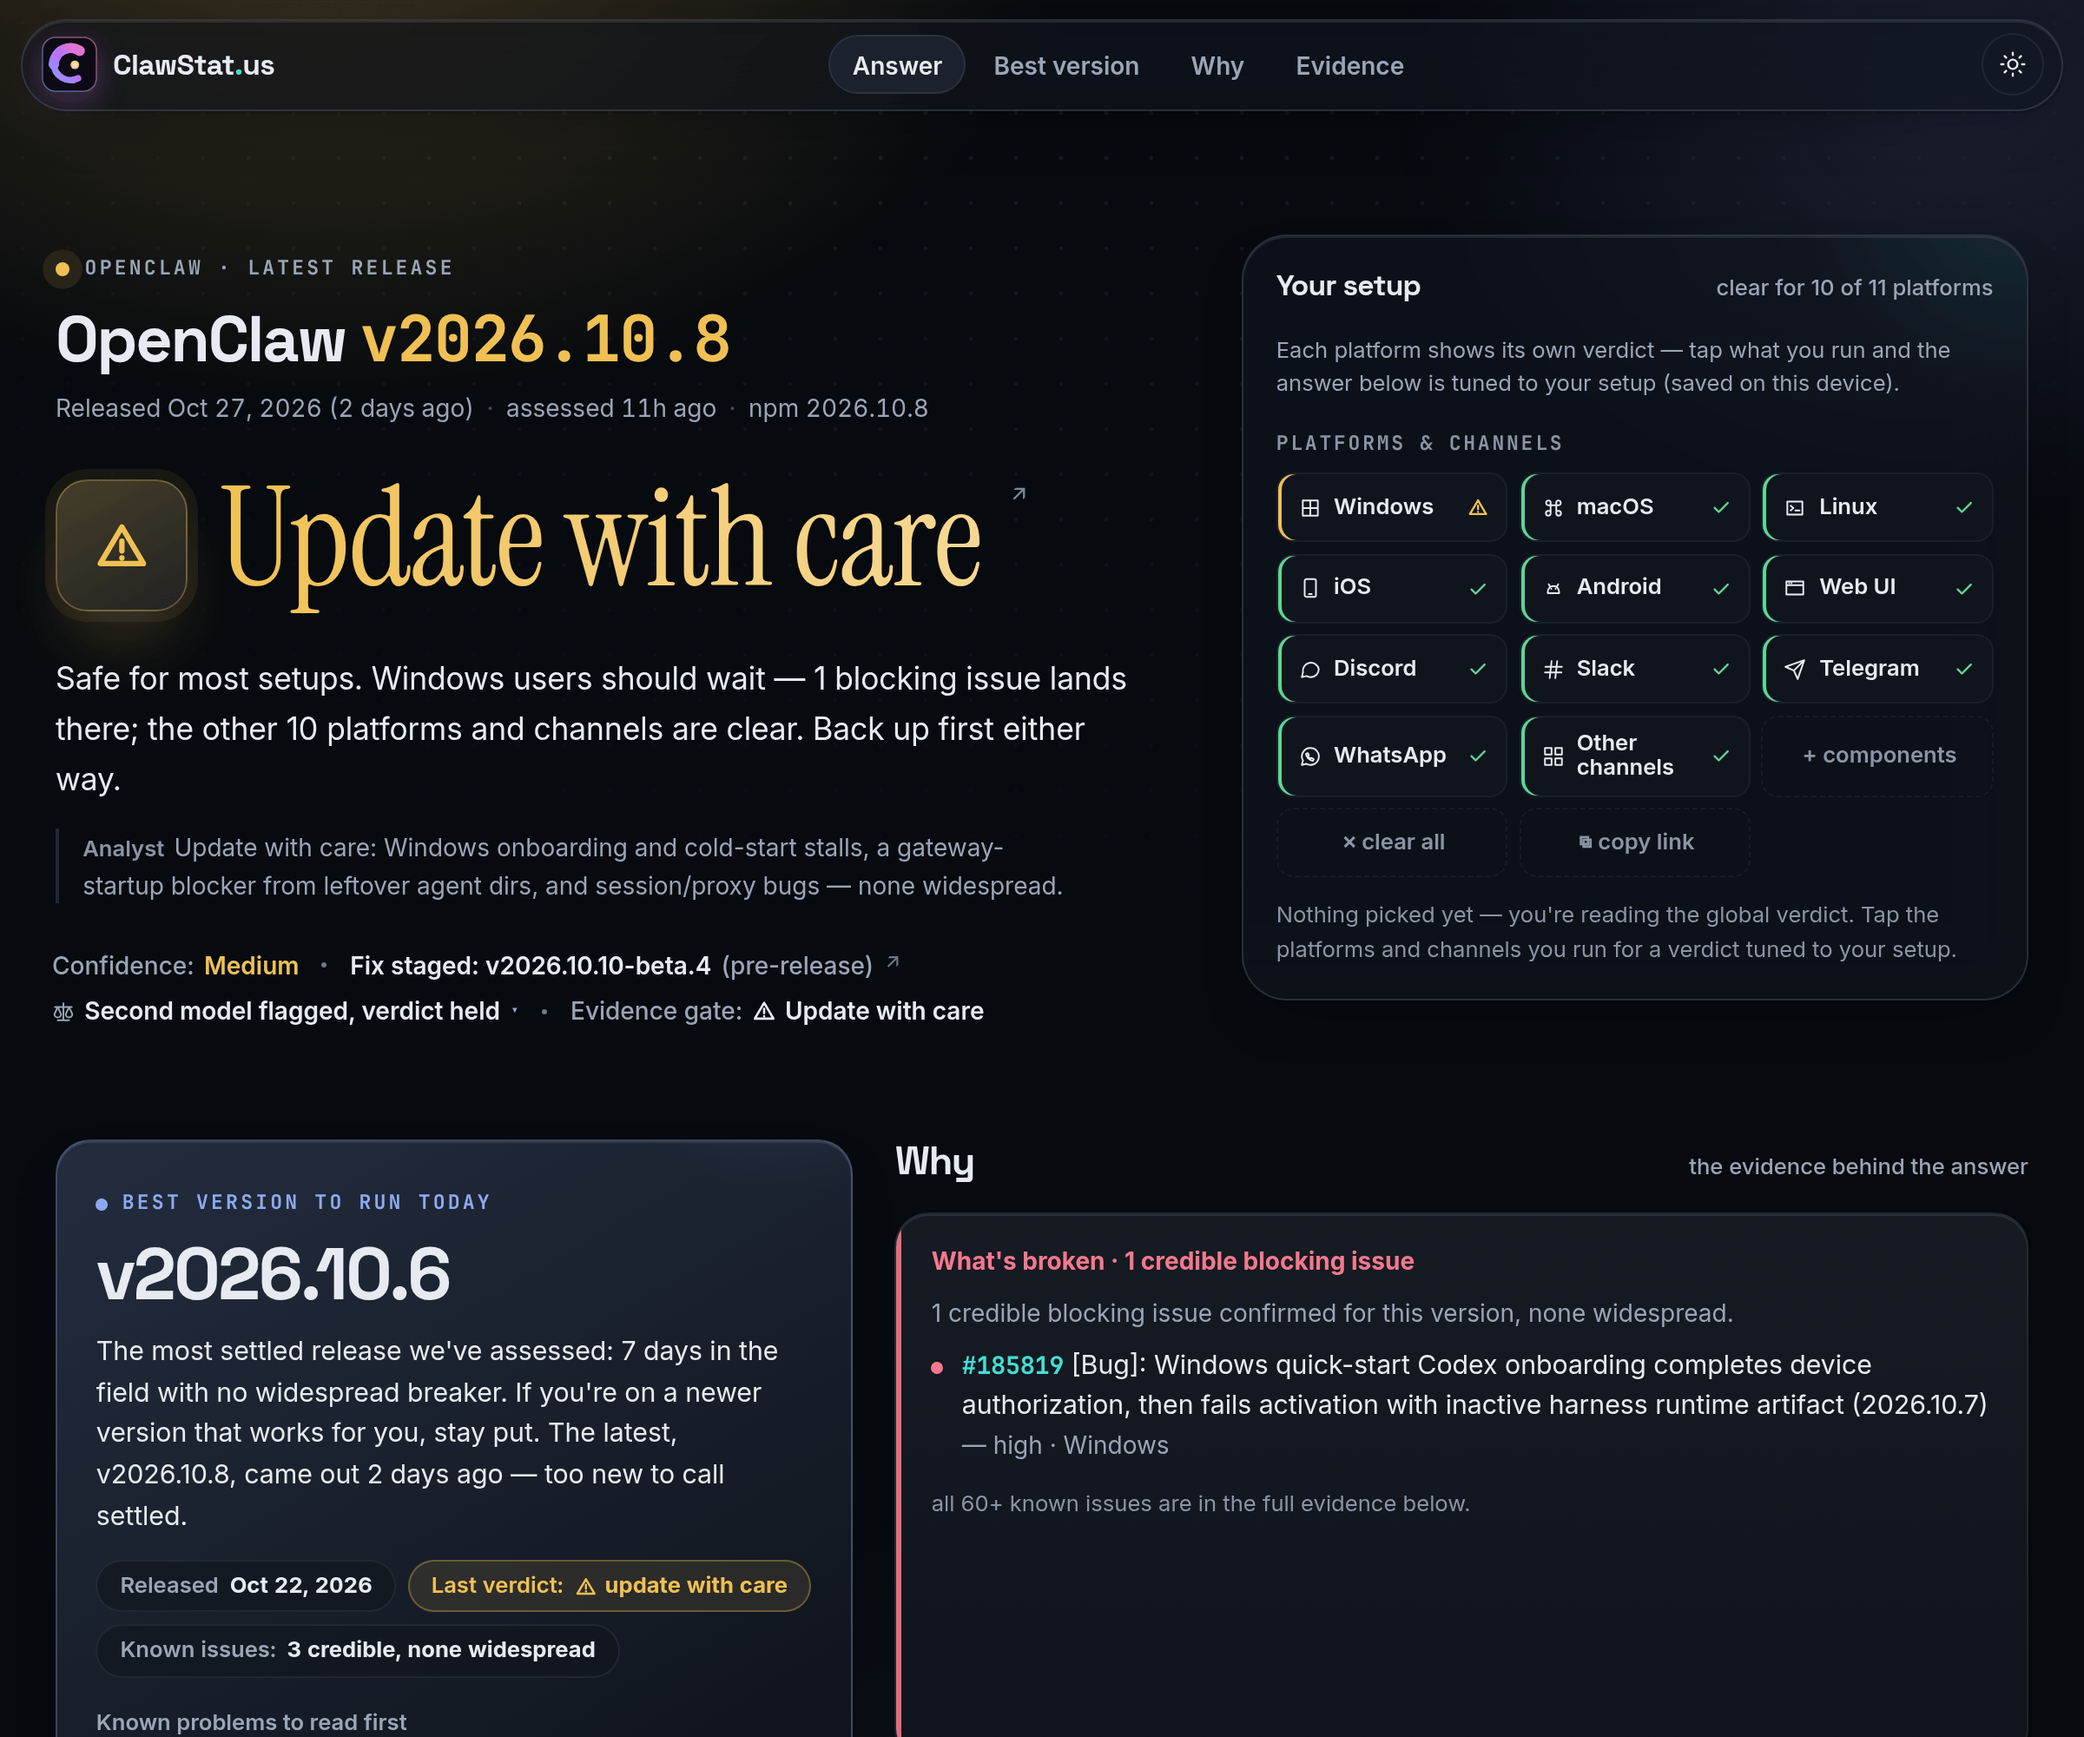
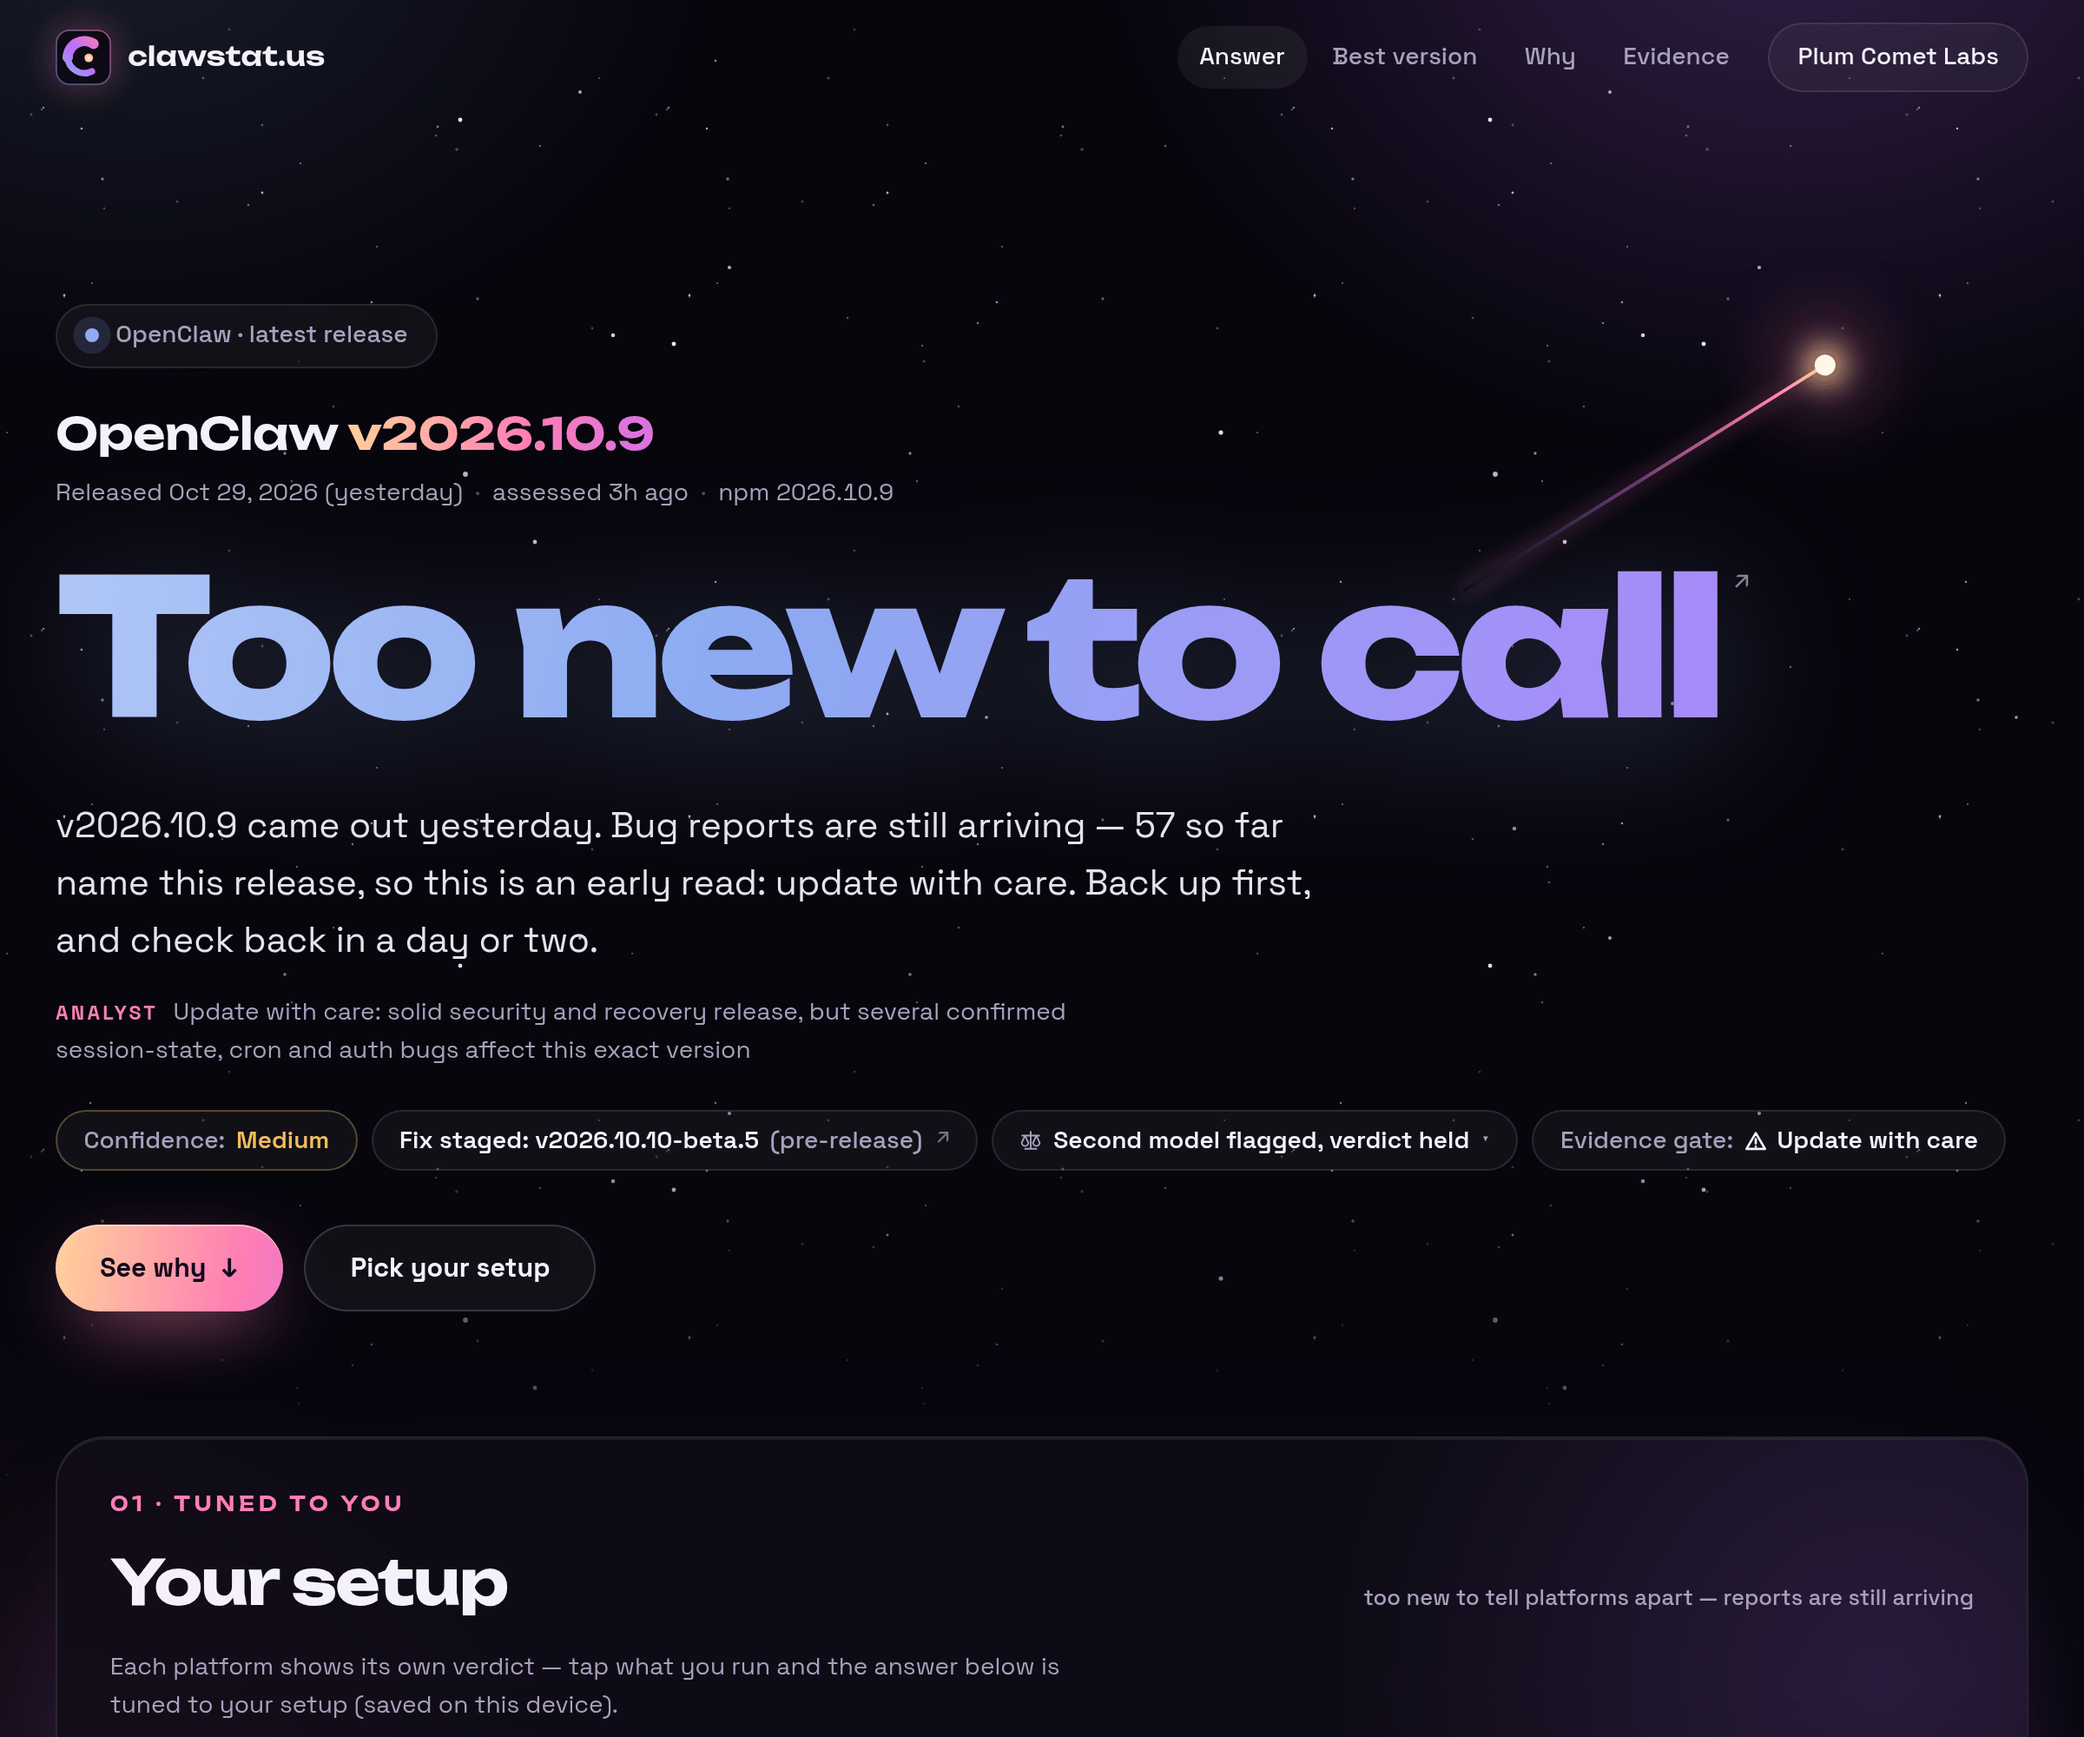
Stale after the Comet redesign: light hero gone, share card and README hero re-shot
- docs/hero-light.png removed: the page has one theme.
- tools/shot.cjs: the --theme option is gone (it set a stored theme the page no
  longer reads); tests/browser/README.md follows (one contrast theme, one set of
  design-loop shots, one README hero).
- tools/og-card.html in the Comet look (Unbounded, the studio gradient, a still
  comet); web/og.png and docs/hero-dark.png re-shot, 256 colours.
- CHANGELOG: the icon entry no longer says the page accent stays teal.

Claude-Session: https://claude.ai/code/session_01RRpqX15cXHXQmLnGwp7zCR

diff --git a/tools/og-card.html b/tools/og-card.html
@@ -8,46 +8,63 @@
 
   It uses the page's own fonts and mark (served from web/ by the screenshot tool), so the
   card follows the design system instead of drifting from it. Re-run after a brand change.
+  Since 2026-10-30 that is the Plum Comet Labs "Comet" look: deep space, a still comet,
+  Unbounded + Space Grotesk, the studio gradient.
 -->
 <style>
-@font-face{font-family:"Inter";font-style:normal;font-weight:400 800;src:url(fonts/Inter-var.woff2) format("woff2")}
+@font-face{font-family:"Unbounded";font-style:normal;font-weight:200 900;src:url(fonts/Unbounded-var.woff2) format("woff2")}
 @font-face{font-family:"Space Grotesk";font-style:normal;font-weight:300 700;src:url(fonts/SpaceGrotesk-var.woff2) format("woff2")}
 :root{
-  --bg:#070a0f; --card:#10151d; --text:#e7ebf1; --muted:#9aa5b6; --faint:#8a94a4;
-  --accent:#3fe0d5; --accent2:#8f9ff5; --good:#5ad893; --warn:#f0c052; --bad:#f6788c;
+  --bg:#07060d; --text:#f4f1fb; --muted:#a8a0bd; --faint:#958dab;
+  --pink:#ff7eb3; --plum:#c06bff; --good:#5ad893; --warn:#f0c052; --bad:#f6788c;
+  --grad:linear-gradient(100deg,#ffd29a 0%,#ff7eb3 30%,#c06bff 60%,#7aa7ff 80%,#ffd29a 100%);
 }
 *{margin:0; box-sizing:border-box}
 html,body{width:1200px; height:630px; overflow:hidden}
 body{
   position:relative; background:var(--bg); color:var(--text);
-  font-family:Inter,system-ui,sans-serif; font-optical-sizing:auto; -webkit-font-smoothing:antialiased;
+  font-family:"Space Grotesk",system-ui,sans-serif; -webkit-font-smoothing:antialiased;
 }
 body::after{content:""; position:absolute; inset:0; pointer-events:none;
-  background:radial-gradient(48% 60% at 12% -8%, color-mix(in srgb,var(--warn) 22%,transparent), transparent 72%),
-             radial-gradient(40% 48% at 96% 4%, color-mix(in srgb,var(--accent2) 16%,transparent), transparent 72%),
-             radial-gradient(56% 40% at 60% 120%, color-mix(in srgb,var(--accent) 12%,transparent), transparent 72%)}
+  background:radial-gradient(52% 70% at 92% -6%, rgba(192,107,255,.30), transparent 70%),
+             radial-gradient(44% 56% at 4% -10%, rgba(240,192,82,.13), transparent 72%),
+             radial-gradient(50% 50% at 0% 110%, rgba(255,126,179,.10), transparent 72%)}
 body::before{content:""; position:absolute; inset:0; pointer-events:none;
-  background-image:radial-gradient(color-mix(in srgb,var(--text) 9%,transparent) 1px,transparent 1.4px); background-size:26px 26px;
-  -webkit-mask-image:radial-gradient(70% 70% at 50% 0%,#000 10%,transparent 100%); mask-image:radial-gradient(70% 70% at 50% 0%,#000 10%,transparent 100%)}
-.card{position:relative; z-index:1; height:100%; padding:64px 80px 56px; display:flex; flex-direction:column}
+  background:radial-gradient(1.4px 1.4px at 6% 22%, rgba(255,255,255,.8), transparent 70%),
+             radial-gradient(1px 1px at 17% 9%, rgba(255,255,255,.55), transparent 70%),
+             radial-gradient(1.2px 1.2px at 31% 36%, rgba(255,255,255,.6), transparent 70%),
+             radial-gradient(1px 1px at 44% 12%, rgba(255,255,255,.5), transparent 70%),
+             radial-gradient(1.6px 1.6px at 56% 28%, rgba(255,246,234,.85), transparent 70%),
+             radial-gradient(1px 1px at 63% 7%, rgba(255,255,255,.55), transparent 70%),
+             radial-gradient(1.2px 1.2px at 71% 46%, rgba(255,255,255,.6), transparent 70%),
+             radial-gradient(1px 1px at 82% 58%, rgba(255,255,255,.5), transparent 70%),
+             radial-gradient(1.4px 1.4px at 94% 40%, rgba(255,255,255,.7), transparent 70%),
+             radial-gradient(1px 1px at 88% 82%, rgba(255,255,255,.45), transparent 70%),
+             radial-gradient(1px 1px at 12% 70%, rgba(255,255,255,.45), transparent 70%),
+             radial-gradient(1.2px 1.2px at 38% 88%, rgba(255,255,255,.5), transparent 70%)}
+/* the studio's comet, still: a gradient tail and a white-hot head */
+.comet{position:absolute; z-index:1; top:96px; right:92px; width:300px; height:14px; transform:rotate(-32deg); transform-origin:100% 50%}
+.comet::before{content:""; position:absolute; left:0; right:6px; top:6px; height:2px; border-radius:2px; background:linear-gradient(90deg,transparent,rgba(192,107,255,.45) 45%,#ff7eb3 85%,#ffd29a); box-shadow:0 0 12px rgba(255,126,179,.7)}
+.comet::after{content:""; position:absolute; right:0; top:1px; width:12px; height:12px; border-radius:50%; background:#fff6ea; box-shadow:0 0 16px 6px rgba(255,210,154,.8),0 0 46px 16px rgba(255,126,179,.45)}
+.card{position:relative; z-index:2; height:100%; padding:64px 80px 56px; display:flex; flex-direction:column}
 .brand{display:flex; align-items:center; gap:18px}
-.brand img{width:56px; height:56px; display:block; filter:drop-shadow(0 10px 18px rgba(192,107,255,.4))}
-.wm{font-family:"Space Grotesk",sans-serif; font-weight:700; font-size:34px; letter-spacing:-.02em}
-.wm .dot{color:var(--accent)}
-.q{margin-top:auto; font-family:"Space Grotesk",sans-serif; font-weight:700; font-size:98px; line-height:.98; letter-spacing:-.045em; text-wrap:balance; max-width:13.5ch}
-.q .oc{background:linear-gradient(94deg,var(--accent),color-mix(in srgb,#fff 38%,var(--accent))); -webkit-background-clip:text; background-clip:text; color:transparent; padding-bottom:.06em}
-.sub{margin-top:26px; font-size:26px; line-height:1.45; color:var(--muted); max-width:30ch}
+.brand img{width:56px; height:56px; display:block; filter:drop-shadow(0 0 16px rgba(255,126,179,.4))}
+.wm{font-family:"Unbounded",sans-serif; font-weight:600; font-size:30px; letter-spacing:.005em}
+.q{margin-top:auto; font-family:"Unbounded",sans-serif; font-weight:800; font-size:76px; line-height:1.02; letter-spacing:-.04em; text-wrap:balance; max-width:15ch}
+.q .oc{background:var(--grad); background-size:150% 100%; -webkit-background-clip:text; background-clip:text; color:transparent; padding-bottom:.06em}
+.sub{margin-top:24px; font-size:26px; line-height:1.45; color:var(--muted); max-width:32ch}
 .foot{margin-top:auto; display:flex; align-items:center; gap:28px; font-size:19px; color:var(--faint)}
 .words{display:flex; align-items:center; gap:14px}
 .w{display:inline-flex; align-items:center; gap:8px; font-weight:600; font-size:19px}
 .w svg{width:22px; height:22px; flex:none}
 .w.good{color:var(--good)} .w.warn{color:var(--warn)} .w.bad{color:var(--bad)}
-.foot .url{margin-left:auto; font-family:ui-monospace,SFMono-Regular,Menlo,monospace; color:var(--accent); font-weight:600; font-size:22px}
+.foot .url{margin-left:auto; font-family:"Unbounded",sans-serif; color:var(--pink); font-weight:600; font-size:22px}
 </style>
+<span class="comet" aria-hidden="true"></span>
 <div class="card">
   <div class="brand">
     <img src="/logo.svg" alt="">
-    <span class="wm">ClawStat<span class="dot">.</span>us</span>
+    <span class="wm">clawstat.us</span>
   </div>
   <h1 class="q">Should you update <span class="oc">OpenClaw</span>?</h1>
   <p class="sub">A live verdict for the latest release: post-release bugs scouted and scored, two independent models argue it out.</p>

diff --git a/tests/browser/README.md b/tests/browser/README.md
@@ -22,7 +22,7 @@ node tests/browser/contrast.test.js
 ```
 
 - **`contrast.test.js`** — the accessibility floor as a test. It renders the real template with
-  the shared payload in both themes, opens every panel, then samples every visible text run:
+  the shared payload (one dark theme), opens every panel, then samples every visible text run:
   the text colour (with effective opacity folded in) against the background found by
   alpha-compositing the ancestors' background colours, with the few gradient surfaces
   flattened to their base colour first. Every pair must reach WCAG AA — 4.5:1, or 3:1 for
@@ -82,7 +82,7 @@ neither runs at render time, and the deploy box never installs anything for them
   http from its own directory with `web/` as the fallback root, so `fonts/…` and
   `/logo.svg`-style paths resolve as in production (`file://` blocks the font) and the page's
   runtime `latest.json` fetch finds the copy `preview.py` wrote. Flags: `--size WxH`,
-  `--dpr N`, `--theme dark|light`, `--full`, `--open` (the evidence toggle), `--click SEL`
+  `--dpr N`, `--full`, `--open` (the evidence toggle), `--click SEL`
   (repeatable, in-page click), `--scroll SEL`, `--wait MS`, `--motion` (animations are off by
   default through `prefers-reduced-motion`, so every `.reveal` is visible and shots are
   deterministic), `--allow-errors`. It exits 1 on an uncaught page error — the "no page
@@ -95,12 +95,10 @@ is scratch):
 export PATH="$HOME/.local/bin:$PATH"          # if node is only on the login-shell PATH
 .venv/bin/python tools/preview.py
 P=web/proto/preview.html; O=/tmp/shots; S="node tools/shot.cjs"
-for t in dark light; do
-  $S $P $O/desktop-$t.png --theme $t
-  $S $P $O/desktop-$t-evidence.png --theme $t --open --scroll "#details-body"
-  $S "$P?stack=linux,discord,gateway" $O/desktop-$t-picked.png --theme $t
-  $S $P $O/mobile-$t.png --theme $t --size 390x844 --dpr 2 --full
-done
+$S $P $O/desktop.png
+$S $P $O/desktop-evidence.png --open --scroll "#details-body"
+$S "$P?stack=linux,discord,gateway" $O/desktop-picked.png
+$S $P $O/mobile.png --size 390x844 --dpr 2 --full
 for i in 1 2 3 4; do
   $S $P $O/tab-$i.png --open --click ".ltabs[role=tablist] .ltab:nth-child($i)" --scroll ".ltabs[role=tablist]"
 done
@@ -136,8 +134,7 @@ $S web/logo.svg /tmp/icon-48.png --size 48x48 --transparent        # + 16/32 →
 printf '<!doctype html><style>html,body{margin:0;background:#0c1017}img{width:180px;height:180px;display:block}</style><img src="/logo.svg">' > web/proto/touch.html
 $S web/proto/touch.html web/apple-touch-icon.png --size 180x180     # full-bleed: iOS masks its own corners
 $S tools/og-card.html web/og.png --size 1200x630                    # the share card
-$S web/proto/preview.html docs/hero-dark.png  --size 1200x1000 --dpr 2 --theme dark   # README heroes
-$S web/proto/preview.html docs/hero-light.png --size 1200x1000 --dpr 2 --theme light  # (quantize to 256 colours after)
+$S web/proto/preview.html docs/hero-dark.png --size 1200x1000 --dpr 2   # the README hero (quantize to 256 colours after)
 ```
 
 The badge (`render._badge_svg`) carries the same mark geometry inline — keep it in step with

diff --git a/CHANGELOG.md b/CHANGELOG.md
@@ -20,7 +20,7 @@ and this project aims to follow [Semantic Versioning](https://semver.org/spec/v2
   the one source; the favicon set, the full-bleed touch icon and the share card
   (`web/og.png`, 256 colours via libimagequant so the small logo keeps its colours) are
   re-rendered from it. The header shows the tile itself instead of a white claw in a teal
-  circle. The page's teal accent and the badge's plain claw are unchanged.
+  circle. The badge keeps its plain claw.
 - **The page wears the Plum Comet Labs look ("Comet"), like plumcometlabs.com.** Deep space
   with a still starfield and the studio's comet over the top of the page, in CSS only (the
   live, pointer-following comet stays on plumcometlabs.com, so this page stays light); the
